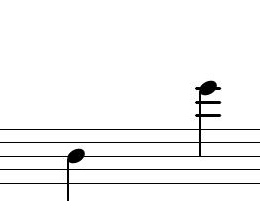
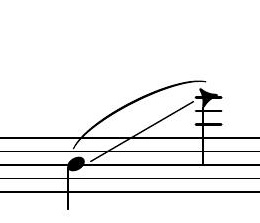
Engraved card 1

Changed region(s): [[0.0, 0.3498, 1.0, 0.9417]]

diff --git a/abjad/make_card.py b/abjad/make_card.py
@@ -21,14 +21,6 @@ preamble = r"""#(set-global-staff-size 19.5)
 
 \layout {
     indent = #0
-
-    \context {
-        \Staff
-        \override VerticalAxisGroup.default-staff-staff-spacing =
-      #'((basic-distance . 8)
-         (minimum-distance . 7)
-         (padding . 1))
-    }
     \context {
         \Score
         \override Clef.stencil = ##f
@@ -39,13 +31,20 @@ preamble = r"""#(set-global-staff-size 19.5)
     }
 }"""
 
+def slur_all(notes):
+    abjad.attach(abjad.StartSlur(), notes[0])
+    abjad.attach(abjad.StopSlur(), notes[-1])
+    return notes
+
 def card_0():
     notes = [abjad.Rest('r2')]
     return notes
 
 def card_1():
     notes = [abjad.Note("B4", (1, 4)), abjad.Note("E6", (1, 4))]
-    return notes
+    abjad.override(notes[1]).NoteHead.style = "#'triangle"
+    abjad.attach(abjad.Glissando(), notes[0])
+    return slur_all(notes)
 
 card_funcs = (card_0, card_1)
 
